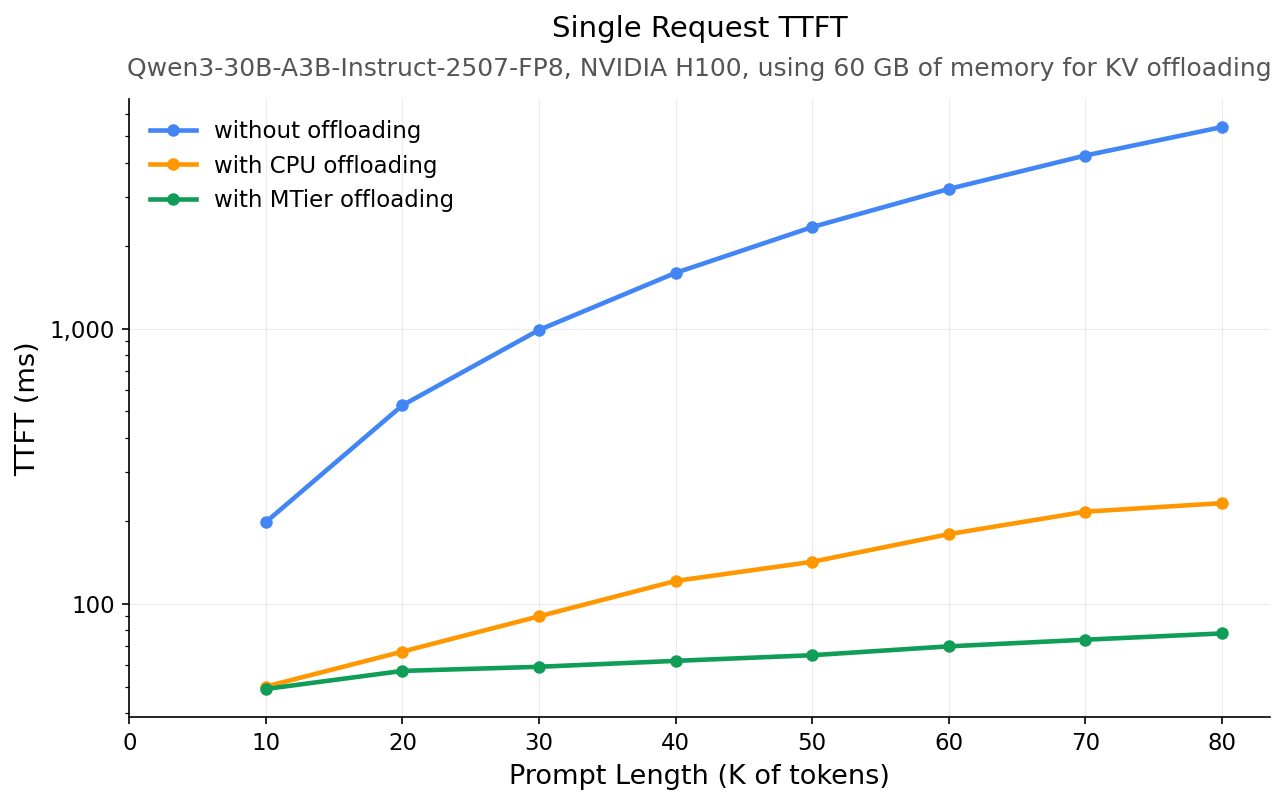
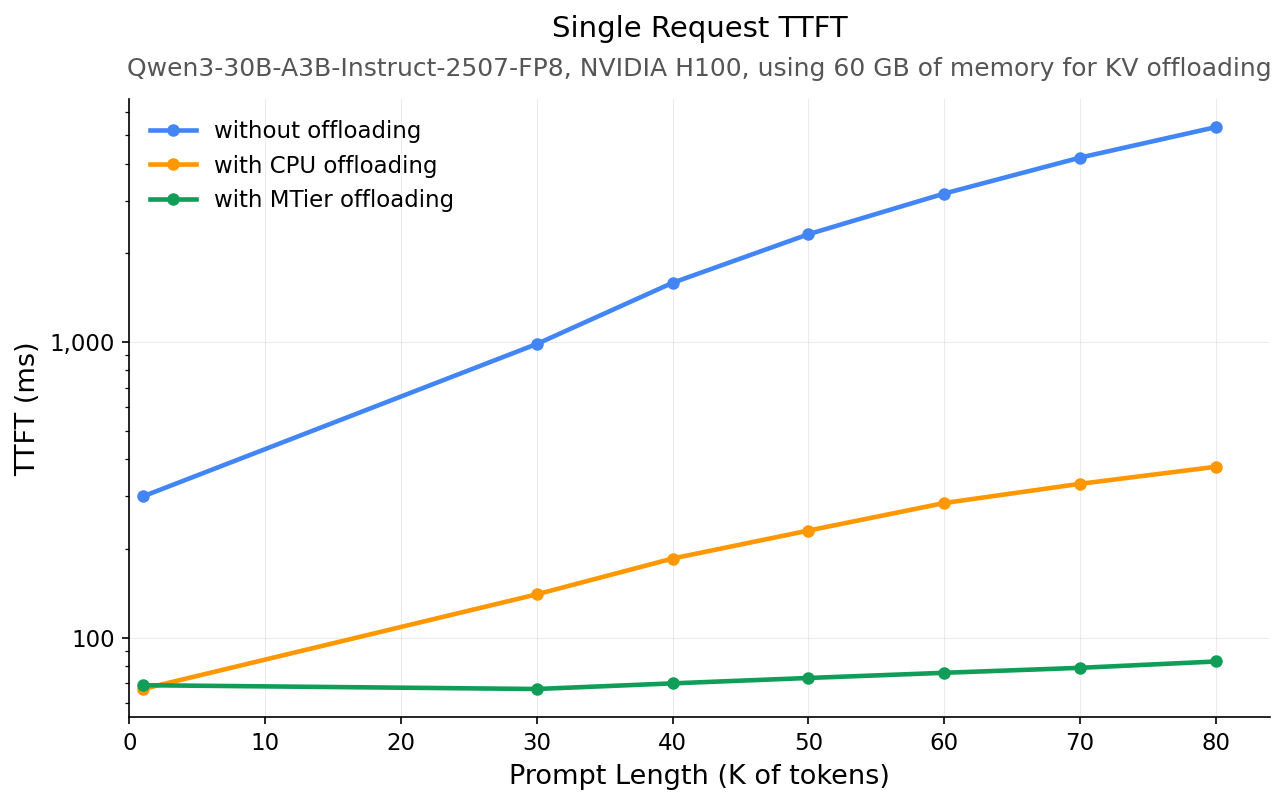
update ttft plot

diff --git a/README.md b/README.md
@@ -92,7 +92,7 @@ We evaluated the integration of X-Mem into SGLang's hierarchical KV cache, compa
 
 X-Mem shows significant gains over CPU DRAM for high cache-hit rate workloads, where data copying dominates computation:
 
-* 🚀 Time to First Token (TTFT): ~3× faster than CPU DRAM at 80K tokens.
+* 🚀 Time to First Token (TTFT): ~4.6× faster than CPU DRAM at 80K tokens.
 <img src="assets/ttft_plot.png" width="70%" alt="TTFT Benchmark Plot" />
 
 ### Running the benchmark
